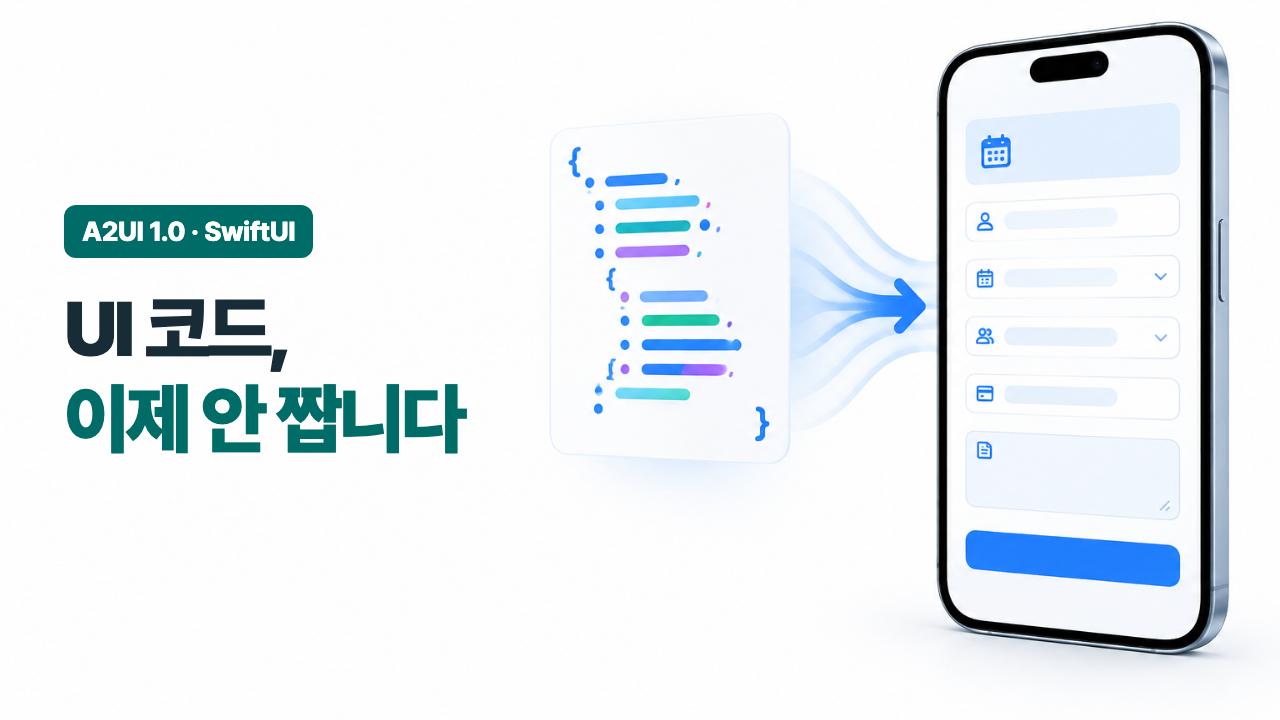
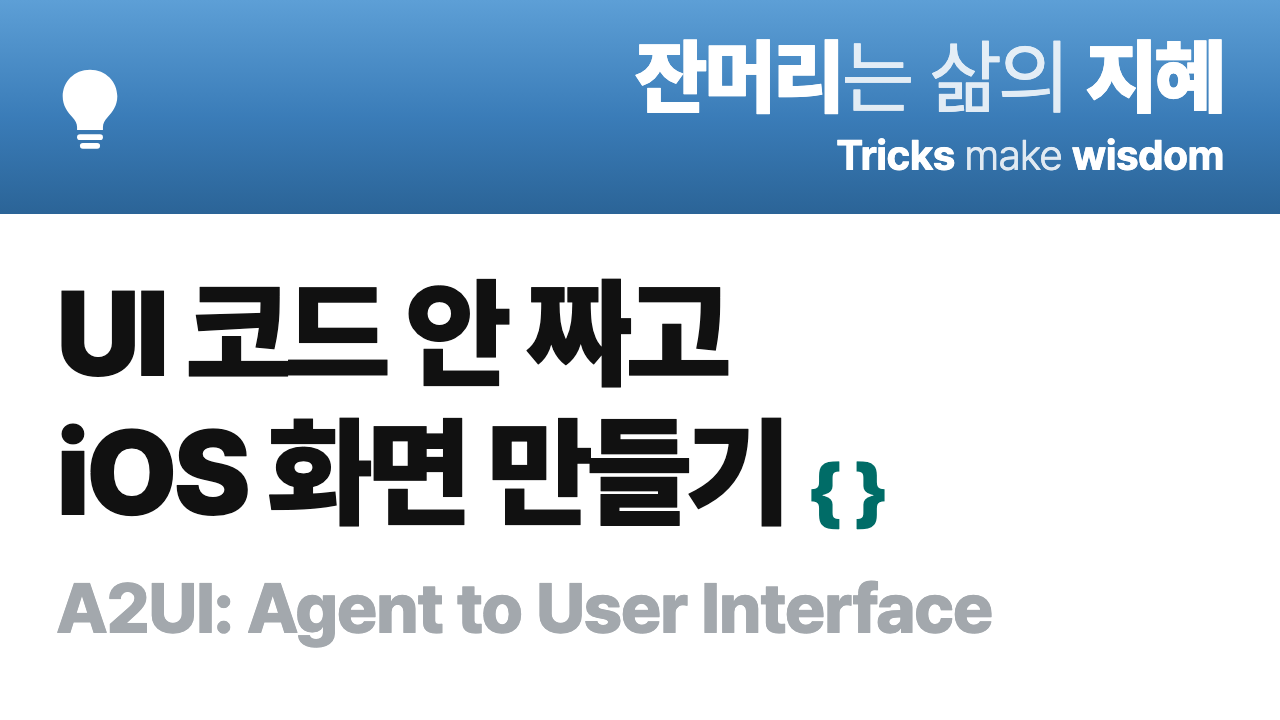
fix(video): S07 음성 잡음 제거, 썸네일을 재생목록 양식으로 변경
- S07 음성의 문장 사이 잡음(4:50)을 재생성으로 제거. 챕터 시간 갱신
- 썸네일: "잔머리는 삶의 지혜" 재생목록 양식. 이전 시안은 alt-generic.png로 보관

diff --git a/video/src/Thumbnail.tsx b/video/src/Thumbnail.tsx
@@ -1,15 +1,52 @@
-import { AbsoluteFill, Img } from "remotion";
+import { AbsoluteFill } from "remotion";
 import { theme } from "./theme";
-import background from "../../docs/thumbnail/bg.png";
+
+// "잔머리는 삶의 지혜" 재생목록 썸네일 양식: 파란 상단 띠 + 흰 본문 + 회색 영문 부제
+const Bulb = () => (
+  <svg width="92" height="92" viewBox="0 0 64 64">
+    <path d="M32 6c-11 0-19 8.4-19 18.6 0 6.6 3.4 11 6.6 14.4 2.2 2.4 3.4 4.6 3.4 7v2h18v-2c0-2.4 1.2-4.6 3.4-7 3.2-3.4 6.6-7.8 6.6-14.4C51 14.4 43 6 32 6z" fill="#fff" />
+    <rect x="23" y="51" width="18" height="4" rx="2" fill="#fff" />
+    <rect x="25" y="57" width="14" height="4" rx="2" fill="#fff" />
+  </svg>
+);
 
 export function Thumbnail() {
   return (
-    <AbsoluteFill style={{ backgroundColor: theme.paper, fontFamily: theme.sans, color: theme.ink }}>
-      <Img src={background} style={{ width: "100%", height: "100%", objectFit: "cover" }} />
-      <div style={{ position: "absolute", left: 64, top: 205 }}>
-        <div style={{ display: "inline-block", background: theme.accent, color: theme.paper, borderRadius: 12, padding: "10px 18px", fontSize: 27, fontWeight: 800, letterSpacing: -0.4 }}>A2UI 1.0 · SwiftUI</div>
-        <div style={{ marginTop: 27, fontSize: 76, lineHeight: 1.18, fontWeight: 900, letterSpacing: -3.5, whiteSpace: "nowrap" }}>
-          UI 코드,<br /><span style={{ color: theme.accent }}>이제 안 짭니다</span>
+    <AbsoluteFill style={{ backgroundColor: "#fff", fontFamily: theme.sans }}>
+      <div
+        style={{
+          height: 214,
+          background: "linear-gradient(180deg, #5d9fd6 0%, #3a7cb8 55%, #2b6497 100%)",
+          display: "flex",
+          alignItems: "center",
+          justifyContent: "space-between",
+          padding: "0 56px 0 44px",
+          color: "#fff",
+        }}
+      >
+        <Bulb />
+        <div style={{ textAlign: "right" }}>
+          <div style={{ fontSize: 82, letterSpacing: -2, lineHeight: 1.05 }}>
+            <b style={{ fontWeight: 900 }}>잔머리</b>
+            <span style={{ fontWeight: 400, opacity: 0.85 }}>는 삶의 </span>
+            <b style={{ fontWeight: 900 }}>지혜</b>
+          </div>
+          <div style={{ fontSize: 42, marginTop: 10, letterSpacing: -0.5 }}>
+            <span style={{ fontWeight: 700 }}>Tricks</span>
+            <span style={{ fontWeight: 300, opacity: 0.85 }}> make </span>
+            <span style={{ fontWeight: 700 }}>wisdom</span>
+          </div>
+        </div>
+      </div>
+      <div style={{ padding: "50px 56px 0", color: "#111" }}>
+        <div style={{ fontSize: 120, fontWeight: 900, letterSpacing: -4.5, lineHeight: 1.16 }}>
+          UI 코드 안 짜고
+          <br />
+          iOS 화면 만들기
+          <span style={{ fontSize: 72, color: theme.accent, marginLeft: 24, letterSpacing: 0 }}>{"{ }"}</span>
+        </div>
+        <div style={{ marginTop: 24, fontSize: 70, fontWeight: 800, color: "#a3a8ad", letterSpacing: -1.5 }}>
+          A2UI: Agent to User Interface
         </div>
       </div>
     </AbsoluteFill>

diff --git a/docs/youtube.md b/docs/youtube.md
@@ -1,8 +1,9 @@
 # 유튜브 업로드 정보
 
-- 영상: `video/out/introduce_a2ui.mp4` (8:22)
+- 영상: `video/out/introduce_a2ui.mp4` (8:20)
 - 자막: `video/out/introduce_a2ui.ko.srt` (한국어, 업로드 시 "자막 > 파일 업로드 > 타이밍 포함")
-- 썸네일: [thumbnail/thumbnail.png](thumbnail/thumbnail.png) (1280×720)
+- 재생목록: 잔머리는 삶의 지혜 (Tricks make wisdom)
+- 썸네일: [thumbnail/thumbnail.png](thumbnail/thumbnail.png) (1280×720, 재생목록 양식). 이전 시안은 [thumbnail/alt-generic.png](thumbnail/alt-generic.png)
 
 ## 제목
 
@@ -48,11 +49,11 @@ A2UI 문서: https://a2ui.org
 3:23 바이브코딩 1: 골프 예약 JSON
 4:12 바이브코딩 2: JSON을 그리는 앱 코드
 4:49 빌드하고 고치기
-5:00 동작 확인
-5:38 나머지 화면은 JSON만
-6:05 서버 드리븐 UI로 쓰기
-6:53 한계와 커스텀
-7:39 마무리
+4:59 동작 확인
+5:37 나머지 화면은 JSON만
+6:04 서버 드리븐 UI로 쓰기
+6:52 한계와 커스텀
+7:38 마무리
 
 #A2UI #SwiftUI #iOS개발 #바이브코딩 #서버드리븐UI
 ```

diff --git a/docs/thumbnail/README.md b/docs/thumbnail/README.md
@@ -1,4 +1,11 @@
-# A2UI 소개 영상 썸네일
+# 썸네일
+
+- `thumbnail.png`: 최종. "잔머리는 삶의 지혜" 재생목록 양식(파란 상단 띠 + 전구, 흰 본문 2줄 제목, 회색 영문 부제). 이미지 모델 없이 `video/src/Thumbnail.tsx`(Remotion, Pretendard)로 그린다.
+- 다시 만들기: `cd video && npx remotion still Thumbnail ../docs/thumbnail/thumbnail.png`
+- `alt-generic.png`: 이전 시안. 배경 `bg.png`는 gpt-image-2.5-flare로 생성(아래 기록).
+
+## 이전 시안 기록
+
 
 - 추천안: `thumbnail.png` (유일한 시안)
 - 배경 이미지 모델: `gpt-image-2.5-flare` (OpenAI Image API, `image_gen.py` CLI)
